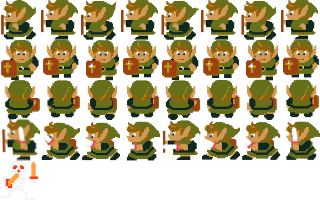
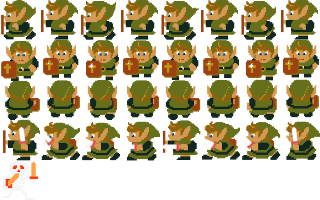
Change rec in spritesheet

Changed region(s): [[0.0, 0.57, 0.125, 0.81], [0.0, 0.18, 0.125, 0.42]]

diff --git a/Zelda/Player.cs b/Zelda/Player.cs
@@ -9,7 +9,7 @@ namespace Zelda
     {
         public Texture2D playerTex;
         public Vector2 position;
-        public Rectangle playerRec = new Rectangle(0, 0, 39, 41);
+        public Rectangle playerRec = new Rectangle(0, 40, 39, 41);
         int lives = 10;
         public bool keyRetrieved = false; // Maybe in another class???
         public bool attacking = false;
@@ -21,6 +21,7 @@ namespace Zelda
         }
         public void playerMovement()
         {
+
             KeyboardState state = Keyboard.GetState();
 
             if(state.IsKeyDown(Keys.A) || state.IsKeyDown(Keys.Left))
@@ -41,23 +42,30 @@ namespace Zelda
             }
             if (!attacking && state.IsKeyDown(Keys.Space) || Mouse.GetState().LeftButton == ButtonState.Pressed)
             {
-                //PlayerAttack();
-                //PlayerDefault();
-                //float attackCoolDown = 1.0f;
-                //float attackTimer = 0.0f;
-                //if (attackTimer < attackCoolDown)
+                //attacking = true;
+                //if (attacking)
                 //{
                 //    PlayerAttack();
+                //    attacking = false;
                 //}
                 //else
                 //{
                 //    PlayerDefault();
                 //}
+
+                float attackCoolDown = 1.0f;
+                float attackTimer = 0.0f;
                 attacking = true;
-                if (attacking)
+
+                if (attacking == true && attackTimer < attackCoolDown)
                 {
                     PlayerAttack();
+                    attackTimer = 0;
                     attacking = false;
+                }
+                else
+                {
+                    PlayerDefault();
                 }
             }
         }
@@ -69,7 +77,7 @@ namespace Zelda
 
         public void PlayerDefault()
         {
-            playerRec = new Rectangle(0, 0, 39, 41); // player default animation
+            playerRec = new Rectangle(0, 40, 39, 41); // player default animation
         }
 
         public void Update()
